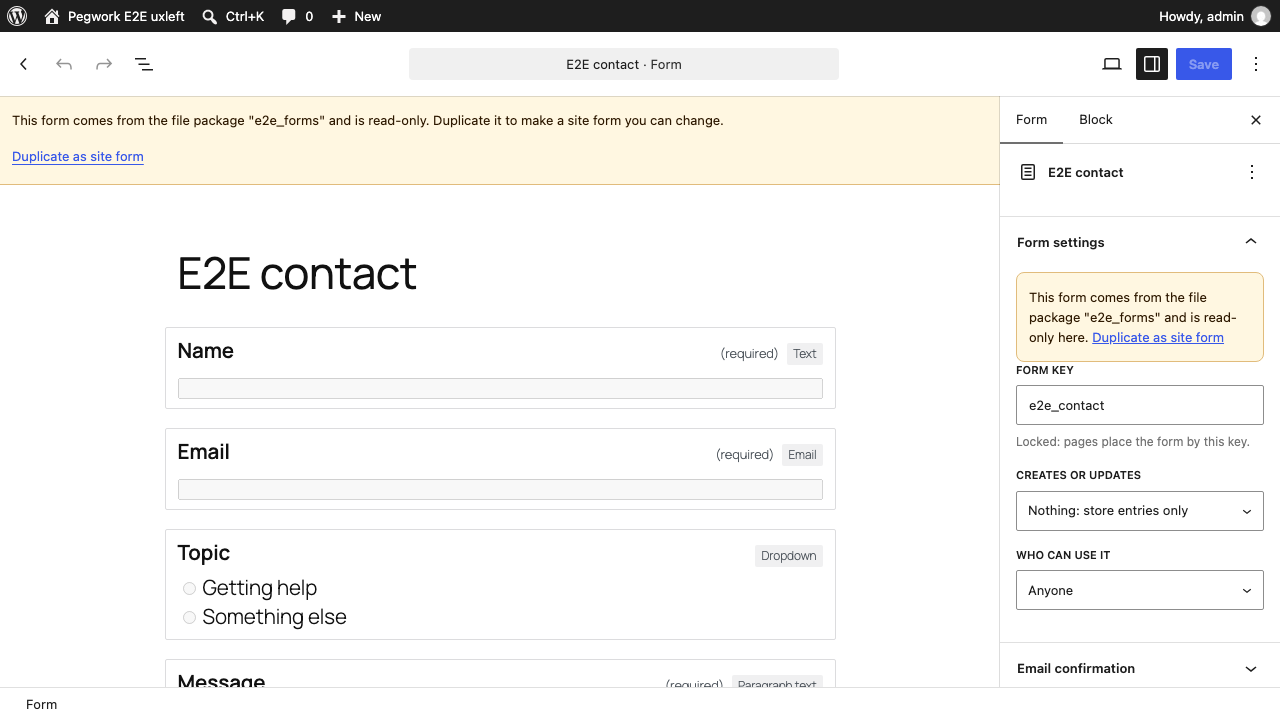
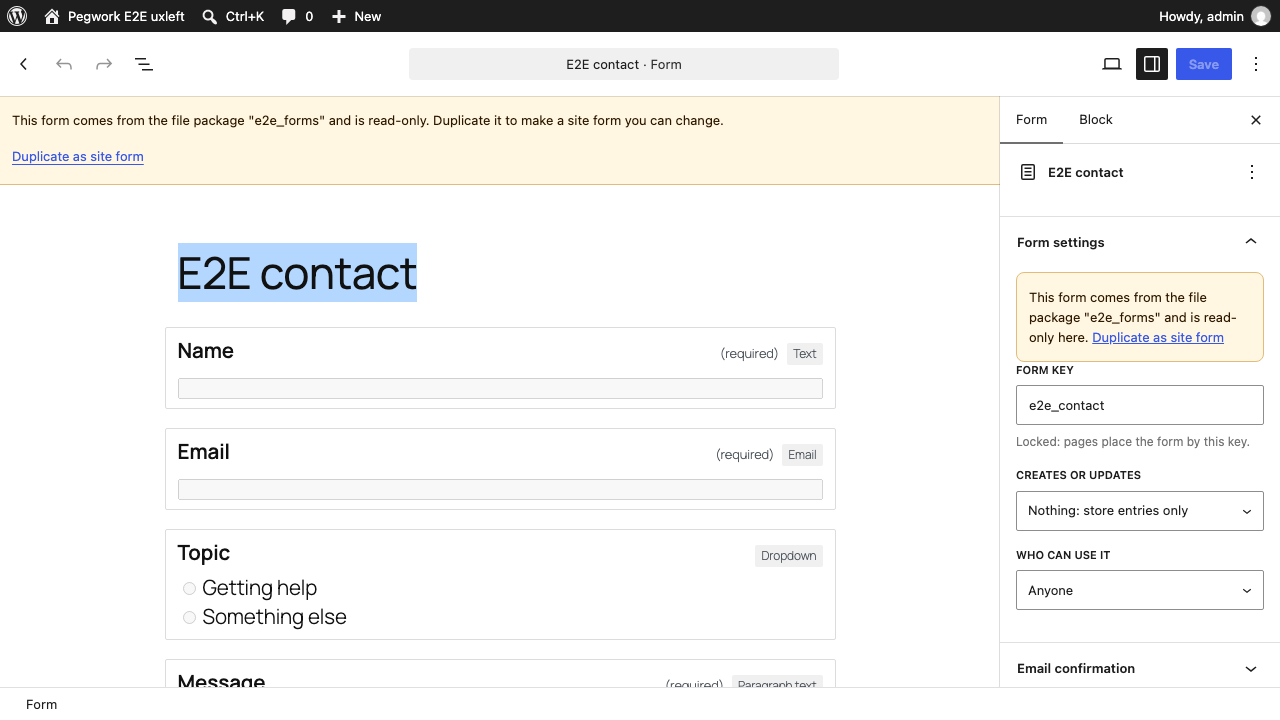
Read-only title: also cancel Backspace, Delete and Enter keydown (Linux select-all); E2E timeout 15 min

Changed region(s): [[0.125, 0.3361, 0.3438, 0.4278]]

diff --git a/assets/src/forms-builder/index.js b/assets/src/forms-builder/index.js
@@ -171,7 +171,7 @@ const TITLE = '.editor-post-title__input';
  * Makes the post title read-only. Core has no setting for it (the title is a contenteditable the
  * template lock does not reach, and it lives in the editor canvas iframe, which the admin body
  * class does not cross), so the canvas body gets the same `pegwork-form-readonly` class (styles:
- * no caret, default cursor) and every edit of the title (typing, paste, cut, drop) is cancelled
+ * no caret, default cursor) and every edit of the title (typing, Backspace, Delete, paste, cut, drop) is cancelled
  * before it reaches the DOM. The title stays focusable and readable by a screen reader.
  *
  * @return {() => void} Stops watching.
@@ -179,9 +179,14 @@ const TITLE = '.editor-post-title__input';
 function lockTitle() {
 	const done = new WeakSet();
 	const cancel = ( event ) => {
-		if ( event.target?.closest?.( TITLE ) ) {
-			// Stopped as well: the rich text's own paste and cut handlers run on the element and
-			// would otherwise still insert or remove text.
+		// Keys that change text on their own (the rich text's delete handler acts on keydown, not on
+		// beforeinput); other keys, arrows and Tab included, still work.
+		const edits =
+			event.type !== 'keydown' ||
+			[ 'Backspace', 'Delete', 'Enter' ].includes( event.key );
+		if ( edits && event.target?.closest?.( TITLE ) ) {
+			// Stopped as well: the rich text's own paste, cut and delete handlers run on the element
+			// and would otherwise still insert or remove text.
 			event.preventDefault();
 			event.stopPropagation();
 		}
@@ -195,7 +200,13 @@ function lockTitle() {
 			}
 			done.add( doc );
 			doc.body.classList.add( 'pegwork-form-readonly' );
-			for ( const type of [ 'beforeinput', 'paste', 'cut', 'drop' ] ) {
+			for ( const type of [
+				'beforeinput',
+				'keydown',
+				'paste',
+				'cut',
+				'drop',
+			] ) {
 				doc.addEventListener( type, cancel, true );
 			}
 		}

diff --git a/tests/e2e/specs/forms-builder.e2e.js b/tests/e2e/specs/forms-builder.e2e.js
@@ -484,7 +484,7 @@ test( 'a file form opens read-only with Duplicate as site form', async ( {
 	await page.keyboard.press( 'End' );
 	await page.keyboard.type( ' edited' );
 	await page.keyboard.press( 'Backspace' );
-	await page.keyboard.press( 'Control+A' );
+	await page.keyboard.press( 'ControlOrMeta+A' );
 	await page.keyboard.press( 'Delete' );
 	await title.evaluate( ( element ) => {
 		const data = new window.DataTransfer();

diff --git a/changelog.md b/changelog.md
@@ -3,7 +3,7 @@
 Purpose: dated, newest-first log of changes actually made.
 
 ## 2026-10-22
-- UX leftovers (branch `ux-leftovers`): Overview rejected table breaks source, file and pointer only after a slash (`<wbr>`, `code.pegwork-path{overflow-wrap:break-word}`); run log Automation select is `width:auto` up to 26em; read-only file forms also lock the title (the builder script cancels `beforeinput`, paste, cut and drop on it, in the editor and the canvas iframe, and adds `pegwork-form-readonly` to the iframe body for a no-caret style; core has no setting for it); schema notice code drops its right padding so it reads "pointer: message". `pegwork/filters` attribute `collapseOnSmall` (default false): under 600 px the form is a native `details` "Filters" or "Filters, 2 active", closed unless a shown control is active, summary kept current by the store (`activeCount`, `collapseText`); works without JavaScript, no ARIA; documented in `docs/display.md`. Tests: `FiltersModuleTest::test_collapse_on_small_screens`, `AdminOverviewTest`, Vitest `url.test.js`, E2E `filters-collapse.e2e.js` (closed and open at 390 px, keyboard, no JavaScript, axe at 390 and 1280 px), `forms-builder.e2e.js` (title edits do nothing). Screenshots `docs/screenshots/filters-collapse-*.png`, `forms-builder-readonly-title.png`.
+- UX leftovers (branch `ux-leftovers`): Overview rejected table breaks source, file and pointer only after a slash (`<wbr>`, `code.pegwork-path{overflow-wrap:break-word}`); run log Automation select is `width:auto` up to 26em; read-only file forms also lock the title (the builder script cancels `beforeinput`, Backspace, Delete, Enter, paste, cut and drop on it, in the editor and the canvas iframe, and adds `pegwork-form-readonly` to the iframe body for a no-caret style; core has no setting for it); schema notice code drops its right padding so it reads "pointer: message". `pegwork/filters` attribute `collapseOnSmall` (default false): under 600 px the form is a native `details` "Filters" or "Filters, 2 active", closed unless a shown control is active, summary kept current by the store (`activeCount`, `collapseText`); works without JavaScript, no ARIA; documented in `docs/display.md`. Tests: `FiltersModuleTest::test_collapse_on_small_screens`, `AdminOverviewTest`, Vitest `url.test.js`, E2E `filters-collapse.e2e.js` (closed and open at 390 px, keyboard, no JavaScript, axe at 390 and 1280 px), `forms-builder.e2e.js` (title edits do nothing). Screenshots `docs/screenshots/filters-collapse-*.png`, `forms-builder-readonly-title.png`.
 - Security review of commit `c908502` (branch `security-review`): `docs/security-review-2026-10.md`. 0 critical, 0 high, 3 medium (SR-01 to SR-03, withheld until fixed), 10 low, 11 informational, plus what was checked and found sound. No plugin code changed.
 
 ## 2026-10-20
